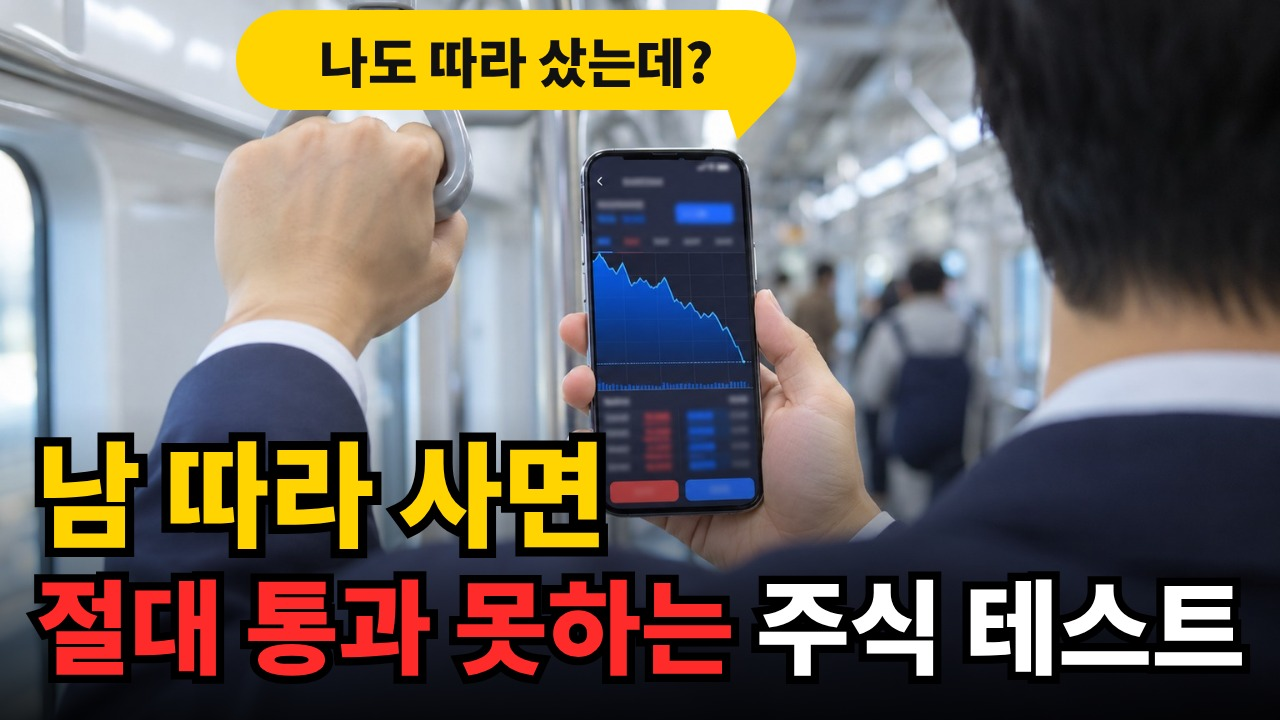
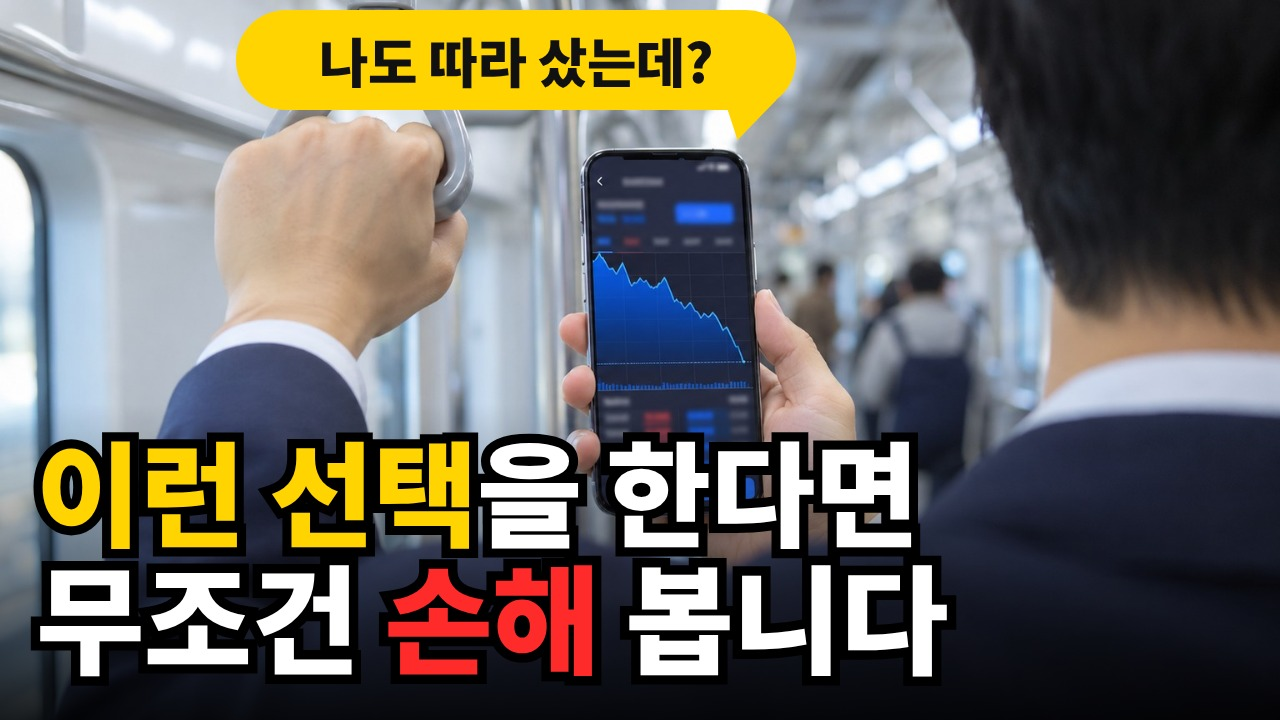
[stock] 1편 A/B 테스트 썸네일 2·3 — 새 제목 짝 (이런 선택 · 상위 10%)
사용자 지시 "…이 두가지 제목에 맞춰 썸네일 문구들 새로 만들어봐 상위%는 몇프로인지 평균 수치로 채우고" · "1편 ab 테스트에 쓸거야".
- thumbnail_2 「이런 선택을 한다면 / 무조건 손해 봅니다」 · thumbnail_3 「돈 버는 상위 10%는 / 절대 이렇게 선택 안 합니다」
- 1편 시트 v1.14 1-1번 A/B 짝 표 · status v3.74 · CHANGELOG

Claude-Session: https://claude.ai/code/session_01PYG2Mrbc8C4HDSnBDWyHf6

Changed region(s): [[0.0, 0.5806, 0.9688, 0.9472]]

diff --git a/stock/source/ppalli-test-2026-11/upload.md b/stock/source/ppalli-test-2026-11/upload.md
@@ -1,6 +1,7 @@
 # ppalli-test-2026-11 업로드 시트
 
-버전: v1.13 — 2026-11-05 — 외국어 설정 (사용자 지시 "외국어 자막, 제목, 썸네일 등 외국어 설정에 필요한 것들 생성하고 지시사항에 반영해 이건 영상이 렌더까지 완료되면 하는거야"): 6번 언어별 제목·설명 9개 언어(en·hi·id·pt·es-419·ja·de·vi·tr — 1·2번 그대로 옮김, 챕터 시각 같음) · 자막 = 한국어 + 언어별 SRT 9개 (`subs/`, `tools/subs_tool.py` build — 완성 영상의 문장 시각) · 언어별 썸네일 `thumbnails/<언어>/thumbnail_1.jpg` (`thumb.mjs` v1.2 lang) · 업로드 설정에 기본 언어 ko · 자막 올리기 언어별 · 섹션 번호 6→7·7→8·8→9.
+버전: v1.14 — 2026-11-05 — 1-1번 A/B 테스트 제목·썸네일 짝 (사용자 지시 "1. 주식 투자 중 이런 선택을 한다면 당신은 무조건 손해볼겁니다 2. 주식으로 돈버는 상위 %는 절대 이렇게 선택하지 않습니다 이 두가지 제목에 맞춰 썸네일 문구들 새로 만들어봐 상위%는 몇프로인지 평균 수치로 채우고" → "1편 ab 테스트에 쓸거야") · 썸네일 2·3 문구 새로.
+이전 v1.13 — 2026-11-05 — 외국어 설정 (사용자 지시 "외국어 자막, 제목, 썸네일 등 외국어 설정에 필요한 것들 생성하고 지시사항에 반영해 이건 영상이 렌더까지 완료되면 하는거야"): 6번 언어별 제목·설명 9개 언어(en·hi·id·pt·es-419·ja·de·vi·tr — 1·2번 그대로 옮김, 챕터 시각 같음) · 자막 = 한국어 + 언어별 SRT 9개 (`subs/`, `tools/subs_tool.py` build — 완성 영상의 문장 시각) · 언어별 썸네일 `thumbnails/<언어>/thumbnail_1.jpg` (`thumb.mjs` v1.2 lang) · 업로드 설정에 기본 언어 ko · 자막 올리기 언어별 · 섹션 번호 6→7·7→8·8→9.
 이전 v1.12 — 2026-11-05 — 설명란 줄임·태그 늘림 (사용자 지시 "김씨는 실제 숫자로 만든 가상의 인물입니다. 내레이션은 AI 음성이고, 그림은 AI로 만든 연출입니다. 다섯 가지 선택, 계산기준빼고 태그도 더 추가 하는걸로 설명 만들자 지시사항에도 반영해" — `stock/guides/quick_board.md` 규칙 45): '다섯 가지 선택'·'계산 기준'·'○씨는 가상의 인물'·'AI 음성/그림' 줄 뺌 · 태그 24개(편 낱말 + 실제 영상 태그 `stock/tag_candidates.md`).
 이전 v1.11 — 2026-11-05 — 설명란 끝을 면세 편 꼴로: '그림은 AI로 만든 연출' + 해시태그 2개 (사용자 "영상 설명 좀 면세 영상 올릴 때 처럼 자세하게") · 실험 썸네일 2·3 을 실사 TH-PHOTO2 로 다시 그림(옛 TH-ART 얼굴 그림이 남아 있었음).
 이전 v1.10 — 2026-11-05 — 완성 영상을 저장소에 둠 `stock/videos/ppalli-test-2026-11.mp4` (사용자 지시 "그냥 깃허브에 올려 1편 영상들") → 새 세션은 다시 렌더 없이 `python3 tools/youtube_upload.py stock ppalli-test-2026-11 --video stock/videos/ppalli-test-2026-11.mp4 --publish-at 2026-11-12T08:00:00Z`.
@@ -24,6 +25,18 @@
 ```
 주식 투자 실패하는 사람들은 절대 통과 못하는 테스트
 ```
+
+## 1-1. A/B 테스트 (스튜디오 '테스트 및 비교' — 제목·썸네일 짝, 2026-11-05 사용자 지시 "1. 주식 투자 중 이런 선택을 한다면 당신은 무조건 손해볼겁니다 2. 주식으로 돈버는 상위 %는 절대 이렇게 선택하지 않습니다 이 두가지 제목에 맞춰 썸네일 문구들 새로 만들어봐 상위%는 몇프로인지 평균 수치로 채우고" → "1편 ab 테스트에 쓸거야")
+
+| 안 | 제목 | 썸네일 | 문구 (아래 2줄 · 말풍선) |
+|---|---|---|---|
+| A (본안) | 주식 투자 실패하는 사람들은 절대 통과 못하는 테스트 | `thumbnails/thumbnail_1.jpg` | 주식 투자 실패하는 사람들은 / 절대 통과 못하는 테스트 · 「-50%, -70% 손실」「설마 나도?」 |
+| B | 주식 투자 중 이런 선택을 한다면 당신은 무조건 손해볼겁니다 | `thumbnails/thumbnail_2.jpg` | **이런 선택**을 한다면 / 무조건 **손해** 봅니다 · 「나도 따라 샀는데?」 |
+| C | 주식으로 돈버는 상위 10%는 절대 이렇게 선택하지 않습니다 | `thumbnails/thumbnail_3.jpg` | 돈 버는 **상위 10%**는 / **절대 이렇게** 선택 안 합니다 · 「5문제 테스트」 |
+
+- 'A/B 테스트' 는 API 로 못 함 — 사용자가 스튜디오에서 (영상 → 제목 옆 '테스트 및 비교' → 제목·썸네일 3안). 그림은 셋 다 본안과 같은 실사(`images/TH-PHOTO2.jpg`), 문구만 다름.
+- **'상위 10%'** = 사용자 지시 '평균 수치로' → 흔히 인용되는 '개인 투자자 10%만 번다(90%는 잃는다)' 값. ⚠ 이 값을 직접 밝힌 2020년대 1차 연구는 찾지 못함 (2026-11-05 검색 — 자본시장연구원 2021: 2020년 3~10월 개인 약 20만 명 가운데 약 46% 손실 · 1편 영상 안에는 이 숫자를 증명하는 장면 없음, CLAUDE.md '숫자는 대본이 증명'과 어긋남 — 사용자 확인 필요).
+- 제목 길이 (`title_fit.py`): B 33자 — PC 다음 동영상(좁은 화면)만 3줄 ❌ · C 33자 ✅. '무조건'·'절대'는 반론 페르소나 K8 과장 낱말(`board_check.py`) — 사용자 제목이라 그대로.
 
 ## 2. 설명란 (그대로 복사)
 
@@ -123,7 +136,7 @@ python tools/srt_tool.py upload stock/source/ppalli-test-2026-11/ppalli-test-202
 | 항목 | 값 |
 |---|---|
 | 공개 상태 | 비공개로 올린 뒤 예약 공개 |
-| 썸네일 | `thumbnails/thumbnail_1.jpg` (본안 — `node video/render/thumb.mjs stock/source/ppalli-test-2026-11/thumbnails/thumbnail_1.json`, 그림 `images/TH-PHOTO2.jpg` 실사) · 2·3은 공개 뒤 '테스트 및 비교' |
+| 썸네일 | `thumbnails/thumbnail_1.jpg` (본안 — `node video/render/thumb.mjs stock/source/ppalli-test-2026-11/thumbnails/thumbnail_1.json`, 그림 `images/TH-PHOTO2.jpg` 실사) · 2·3 = A/B 테스트 실험안 (1-1번 짝 제목과 함께, 스튜디오 '테스트 및 비교') |
 | 자막 | `ppalli-test-2026-11.srt` (오디오 뒤 `align-audio` 로 맞춘 것) |
 | 자막 올리기 | 언어별 (한국어 `ppalli-test-2026-11.srt` + `subs/ppalli-test-2026-11.<언어>.srt` 9개 — 외국어는 CC · 한국어 자막은 화면에 구워져 있어 CC 를 켜면 아래 자막 띠와 겹칠 수 있음, 올리기 전 사용자 확인 — `stock/guides/quick_board.md` 규칙 46) |
 | 기본 언어 | ko |

diff --git a/guides/status.md b/guides/status.md
@@ -1,5 +1,6 @@
 # 지금 상태·다음 할 일 (인수인계)
 
+버전: v3.74 — 2026-11-06 — **1편 A/B 테스트 짝** (사용자 "1. 주식 투자 중 이런 선택을 한다면 당신은 무조건 손해볼겁니다 2. 주식으로 돈버는 상위 %는 절대 이렇게 선택하지 않습니다 이 두가지 제목에 맞춰 썸네일 문구들 새로 만들어봐 상위%는 몇프로인지 평균 수치로 채우고" → "1편 ab 테스트에 쓸거야"): B 「주식 투자 중 이런 선택을 한다면 당신은 무조건 손해볼겁니다」 + thumbnail_2 「이런 선택을 한다면 / 무조건 손해 봅니다」 · C 「주식으로 돈버는 상위 10%는 절대 이렇게 선택하지 않습니다」 + thumbnail_3 「돈 버는 상위 10%는 / 절대 이렇게 선택 안 합니다」 — 1편 시트 v1.14 1-1번 · 스튜디오 '테스트 및 비교'는 사용자가 · ⚠ '상위 10%' 근거 1차 연구 없음(사용자 확인)
 버전: v3.73 — 2026-11-05 — **2편 음성 확인** (사용자 "2편 음성 확인해서 발음 이상하거나 이상한 소리나는 부분 찾아봐"): 새 도구 `tools/audio_check.py` v1.0 (음성 인식은 이 환경에서 막힘 — 소리 모양 후보 + 발음 확인 낱말) → 2편 롱폼 문장 29 「당신은 그사이…」 앞 0.2초 웅얼거림 → 무음 (narration.mp3 · 완성 mp4) · 2편 쇼츠 후보 0 · 귀로 확인할 것 2편 문장 18·84·85 · ⚠ 같은 잡음 3편 문장 72 · 4편 문장 9 (아직 안 고침) · ⚠ 올린 `EV12LtESXuI` 는 옛 소리 — 1편처럼 새로 올리고 옛 것 지워야 함 (사용자 확인 기다림) · tts_guide v1.21 · quick_board v3.10 · CLAUDE.md
 버전: v3.72 — 2026-11-05 — **2편 롱폼 썸네일 문구** 「수익나도 결국 손실인 사람들은 / 0점 맞는 테스트」 (사용자 "2편 롱폼 썸네일 문구 수익나도 결국 손실인 사람들은 ~ 이렇게 변경해 사람들은 붙여야해" — 한국어 + 9개 언어) → 올린 `EV12LtESXuI` 에 다시 · **2편 쇼츠 썸네일이 안 붙던 까닭** (사용자 "그리고 왜 쇼츠 썸네일은 적용 안되는거야?"): 올리자마자(처리 전) 보내 세로 썸네일이 안 생김 → 처리 뒤 다시 보내 `H0k8gbYeIYo` 에 shortsAspectRatio 720×1280 생김 · `youtube_upload.py` v1.15 (쇼츠는 처리 기다린 뒤 + 확인) · upload_guide · CLAUDE.md
 버전: v3.71 — 2026-11-05 — **1편 롱폼 문장 8 앞 잡음 지움** (사용자 "야 1편 롱폼에서 지금부터 김씨가 되어보겠습니다 대사 다음 대사로 넘어가기전 무슨 이상한 소리가 잠깐 나오는데 어떻게 수정해"): Qwen3-TTS 가 「당신에게는」 앞에 만든 0.2초 웅얼거림(31.99~32.17초) → 그 구간만 무음 (narration.mp3 · 완성 mp4 · `stock/videos/` — 영상 다시 렌더 없음) · 1편 다른 98문장 시작은 이상 없음 · `guides/tts_guide.md` v1.20 5-4 · ⚠ 유튜브에 올린 `2l2FLcM0wfs` 는 옛 소리 — 바꾸려면 새로 올리고 옛 영상 지움 (사용자 확인 기다림)

diff --git a/CHANGELOG.md b/CHANGELOG.md
@@ -1,5 +1,11 @@
 # CHANGELOG — youtube_topic_analyzer
 
+## 2026-11-06 — 1편 A/B 테스트 제목·썸네일 짝 (실험안 2·3)
+
+- 사용자 지시 "1. 주식 투자 중 이런 선택을 한다면 당신은 무조건 손해볼겁니다 2. 주식으로 돈버는 상위 %는 절대 이렇게 선택하지 않습니다 이 두가지 제목에 맞춰 썸네일 문구들 새로 만들어봐 상위%는 몇프로인지 평균 수치로 채우고" → "1편 ab 테스트에 쓸거야".
+- 썸네일 2 (B 제목 「주식 투자 중 이런 선택을 한다면 당신은 무조건 손해볼겁니다」): 「**이런 선택**을 한다면 / 무조건 **손해** 봅니다」 · 썸네일 3 (C 제목 「주식으로 돈버는 상위 10%는 절대 이렇게 선택하지 않습니다」): 「돈 버는 **상위 10%**는 / **절대 이렇게** 선택 안 합니다」 — 그림·말풍선 그대로, `thumb.mjs` 로 다시 그려 직접 봄.
+- '상위 10%' = 흔히 인용되는 값 (2020년대 1차 연구로 확인 못 함 — 자본시장연구원 2021 은 2020년 개인 약 46% 손실). 1편 시트 v1.14 1-1번에 짝 표·주의.
+
 ## 2026-11-05 — 2편 음성 확인 · tools/audio_check.py v1.0
 
 - 사용자 지시 "2편 음성 확인해서 발음 이상하거나 이상한 소리나는 부분 찾아봐".
